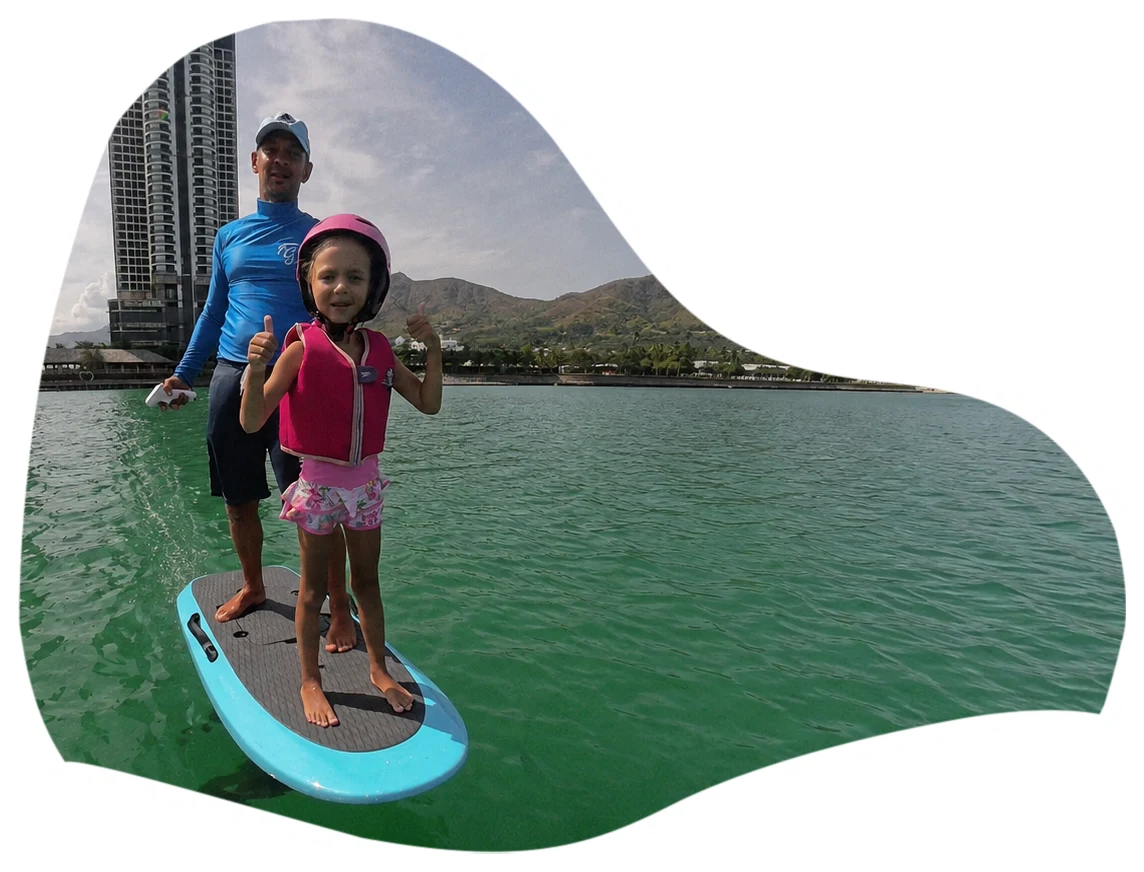
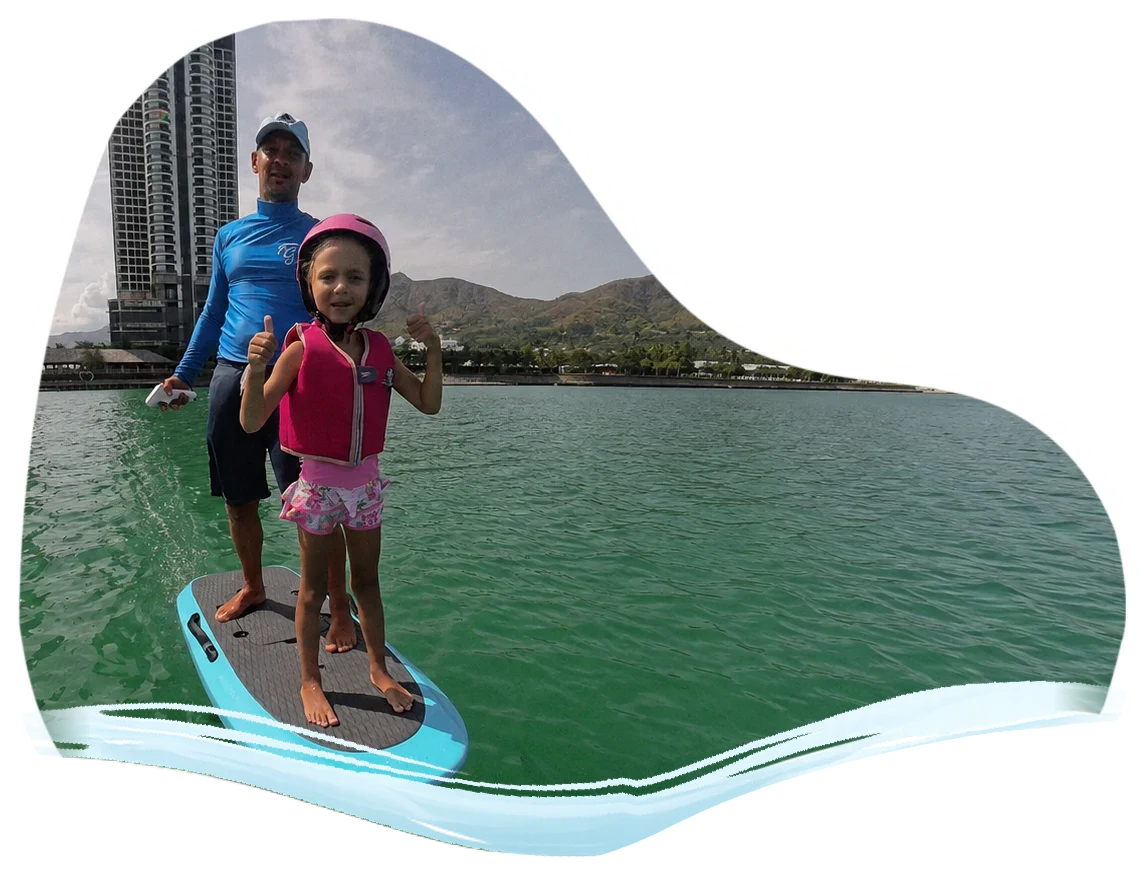
Bake the small frame's bottom into the wave
The small frame ended in a straight cut, so its white outline ran across the
big frame's wave and stopped dead — a sticker laid over water. On a phone it
read as slipped off.

The fix lives in the file, not the markup. Its alpha is multiplied by the big
frame's alpha at the spot the layout drops it, so both photos now end on one
silhouette; the designer's wave is then drawn over that seam, stretched column
by column so its lower contour follows the same edge. Left as it came, the
wave is a different curve from the one baked into the big frame — no scale
lines them up — and laid on top it would simply cross it. Over water it needed
its opacity pushed to read as a wave and not as haze.

That ties 38% / 53% / bottom-0 to the file itself: move the frame and the cut
walks off the wave. The warning sits next to the numbers.

Claude-Session: https://claude.ai/code/session_01NkaT1ctg29wabprQjV3mMC

Changed region(s): [[0.0306, 0.7741, 0.979, 0.9908]]

diff --git a/src/app/[locale]/reviews/page.tsx b/src/app/[locale]/reviews/page.tsx
@@ -148,14 +148,22 @@ export default function ReviewsPage() {
             />
 
             {/* Малый кадр внахлёст. Прижат к НИЗУ большого (bottom-0), а не
-                поставлен по координате сверху: у обоих файлов нижняя кромка
-                вырезана волной, и при общем низе они сливаются в одну белую
-                ленту через всю композицию — ровно как на макете. Стоило
-                поднять малый кадр выше, и он повисал наклейкой посреди
-                фотографии (так и было в первой версии).
+                поставлен по координате сверху: обе фотографии кончаются одной
+                и той же волной и при общем низе сливаются в одну композицию —
+                ровно как на макете. Стоило поднять малый кадр выше, и он
+                повисал наклейкой посреди фотографии (так и было в первой
+                версии).
                 Доли — от ширины большого кадра, чтобы посадка держалась на
                 любой ширине окна. 53% подобраны по макету: правый край малого
-                кадра встаёт на 91%, там где его хвост переходит в волну. */}
+                кадра встаёт на 91%, там где его хвост переходит в волну.
+
+                ⚠ Эти три числа — 38%, 53% и bottom-0 — зашиты В САМ ФАЙЛ
+                hero-small.webp: у него низ обрезан ровно по кромке большого
+                кадра и поверх кромки нарисована та же волна, иначе белая
+                обводка малого кадра обрывалась поперёк волны прямым срезом
+                (так и было до 29.08.2026). Сдвинете или перемасштабируете
+                кадр — срез перестанет совпадать с волной, и файл придётся
+                печь заново из photo_video/отзывы_hero (littlephoto + wave). */}
             <Image
               src="/media/photo/reviews/hero-small.webp"
               alt="Девочка самостоятельно едет на электрофойле рядом с инструктором"
